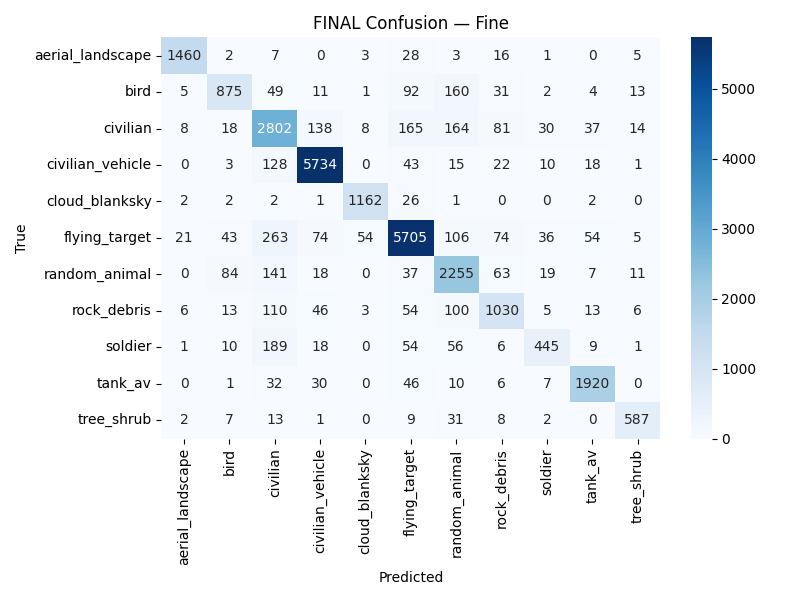
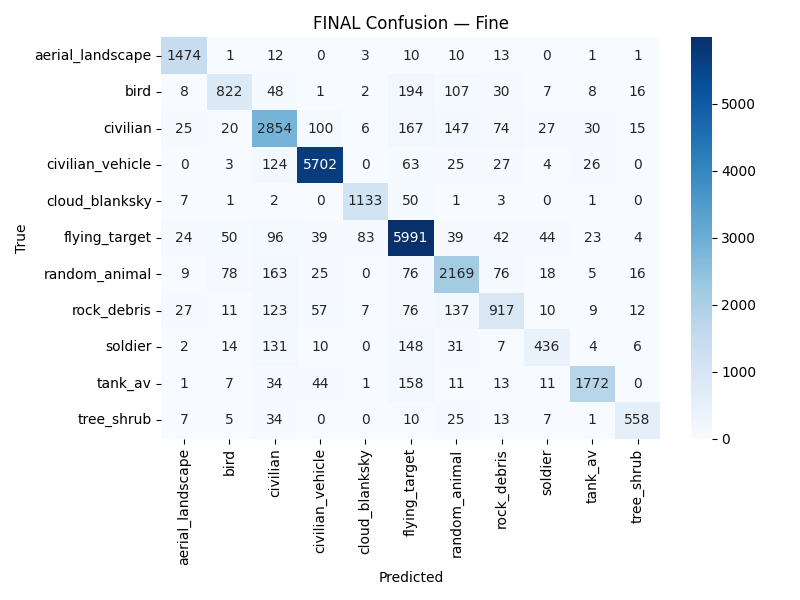
Ship the run the published numbers actually come from
Traced the 87.1% / 91.3% headline to its source. It is the 256x256 / 20-epoch
run: fine accuracy 0.8708, coarse 0.9131, macro P/R/F1 0.8570/0.8208/0.8358, and
every per-class precision matches the project page's table exactly. The repo had
been shipping the 128x128 / 50-epoch run (87.62 / 91.17) instead, so the README
disagreed with the site for no good reason.

results/ now holds the 256x256 run -- reports, baselines, full test metrics,
confusion matrix and curves -- and results/resolution-study-128x128/ keeps the
128x128 run alongside it, which is a more useful comparison than a footnote about
a discrepancy.

Also fixes the JPEG quality default: 512 is out of range for JPEG (1-100) and
libjpeg clamps it to 100, so the corpus was always written at quality 100.
Verified byte-identical output for quality=512 and quality=100 on this Pillow
before changing the literal to 100.

Neither offline checkpoint fits in the repo: the 256x256 one is ~385 MB and the
128x128 one ~97 MB. README updated accordingly.

diff --git a/src/build_dataset.py b/src/build_dataset.py
@@ -156,7 +156,10 @@ DATASETS: List[dict] = [
 # ============================================================
 
 DEFAULT_SIZE = 512
-DEFAULT_JPG_QUALITY = 512
+# Was 512, which is out of range for JPEG (valid: 1-100). libjpeg clamps anything
+# above 100 down to 100, so the dataset was in fact written at quality=100 and
+# this change is byte-for-byte identical -- it just states the real value.
+DEFAULT_JPG_QUALITY = 100
 RNG = random.Random(1337)
 
 # ============================================================
@@ -489,7 +492,7 @@ def main(argv: Optional[List[str]] = None):
     ap.add_argument("--size", type=int, default=DEFAULT_SIZE, help="Output square size (px)")
     ap.add_argument("--splits", type=float, nargs=3, default=[0.8,0.1,0.1], metavar=("TRAIN","VAL","TEST"))
     ap.add_argument("--seed", type=int, default=1337, help="RNG seed")
-    ap.add_argument("--jpg-quality", type=int, default=512, help="JPEG quality")
+    ap.add_argument("--jpg-quality", type=int, default=DEFAULT_JPG_QUALITY, help="JPEG quality (1-100)")
     ap.add_argument("--zip", action="store_true", help="Zip dataset at the end")
     ap.add_argument("--classes", type=str, default=None, help="Comma-separated subset of canonical labels to keep")
     args, _ = ap.parse_known_args(argv)

diff --git a/README.md b/README.md
@@ -14,21 +14,29 @@ Held-out test set: **27,362 samples** across 11 fine classes. Naïve single-clas
 
 | Head | Accuracy | Macro F1 | Baseline |
 |---|---|---|---|
-| Fine (11-way) | 87.62% | 0.8524 | 23.52% |
-| Coarse (3-way valid/invalid) | 91.17% | 0.9117 | 34.50% |
+| Fine (11-way) | **87.08%** | 0.8358 (P 0.8570 / R 0.8208) | 23.52% |
+| Coarse (3-way valid/invalid) | **91.31%** | 0.9129 (P 0.9128 / R 0.9130) | 34.50% |
 
 <p align="center">
   <img src="results/final_confusion_fine.png" width="520" alt="Fine-head confusion matrix across 11 classes">
 </p>
 
-Per-class precision is strongest on visually distinct categories (`aerial_landscape` 0.970,
-`civilian_vehicle` 0.945, `cloud_blanksky` 0.944) and weakest where classes share appearance
-(`civilian` 0.750, `random_animal` 0.777, `rock_debris` 0.770). Full breakdowns are in
-[`results/`](results).
+Per-class precision is strongest on visually distinct categories (`civilian_vehicle` 0.954,
+`tank_av` 0.943, `aerial_landscape` 0.931) and weakest where classes share appearance
+(`rock_debris` 0.755, `soldier` 0.773, `civilian` 0.788). Full breakdowns, including per-class recall
+and both confusion matrices, are in [`results/test_detailed_metrics.txt`](results/test_detailed_metrics.txt).
 
-> The figures above come from the 128×128 / 50-epoch run whose artifacts are checked in here. The
-> project page quotes a sibling run of the same architecture (87.1% fine / 91.3% coarse) — the
-> baselines and test-set size are identical, the headline accuracies differ by a few tenths of a point.
+### Which run these numbers come from
+
+The architecture was trained at several input resolutions. The figures above — and the ones on the
+project page — are the **256 × 256 / 20-epoch** run, and `results/` at the top level holds that run's
+artifacts.
+
+[`results/resolution-study-128x128/`](results/resolution-study-128x128) holds the **128 × 128 /
+50-epoch** run for comparison: 87.62% fine / 91.17% coarse on the same 27,362-sample test set. The
+two land within a few tenths of a point of each other, which is what "differences negligible" in the
+original folder names refers to. 64 × 64 was clearly worse and 256 × 256 added very little over
+128 × 128, so for offline classification 128 × 128 is the sweet spot on cost.
 
 ## Pipeline
 
@@ -82,8 +90,9 @@ collected, 182,413 samples used after balancing and de-duplication).
 the real-time video pipeline — the low-resolution crops that kept the YOLO + CNN loop closest to real
 time. [`models/label_map.json`](models/label_map.json) is the matching class map.
 
-The 128×128 checkpoint that produced the headline offline metrics is ~97 MB and is not in the
-repository. Rebuild it with `src/train_model.py` at `IMAGE_SIZE = (128, 128)`, or ask for a copy.
+The offline checkpoints are too large for the repository: the 256 × 256 run behind the headline
+numbers is ~385 MB, and the 128 × 128 run is ~97 MB. Rebuild either with `src/train_model.py` by
+setting `IMAGE_SIZE` accordingly, or ask for a copy.
 
 ## Running it
 
@@ -123,7 +132,8 @@ variable, defaulting to `./data_kagglehub_unified`.
 ```
 src/         runnable stage scripts
 notebooks/   the original Colab notebooks (outputs stripped)
-results/     confusion matrices, training curves, classification reports
+results/     the published 256x256 run: confusion matrix, curves, reports, full metrics
+  resolution-study-128x128/   the same artifacts for the 128x128 run
 models/      real-time classifier weights + label map
 docs/        full technical report (PDF)
 ```
@@ -139,6 +149,9 @@ nothing else changed. `src/` is the same code lifted out of those cells, with ex
   at relative paths instead of hard-coded local ones. The originals are kept in comments.
 - `build_dataset.py` — the entry point calls `main()` rather than `main(argv=[])`, so command-line
   arguments are honoured when the file is run as a script.
+- `build_dataset.py` — the JPEG quality default is written as `100` instead of `512`. JPEG quality is
+  defined over 1–100; libjpeg silently clamps anything higher, so the corpus was always encoded at
+  100 and the output is byte-for-byte unchanged. The literal now states what actually happened.
 
 Every other byte matches the notebooks.
 
